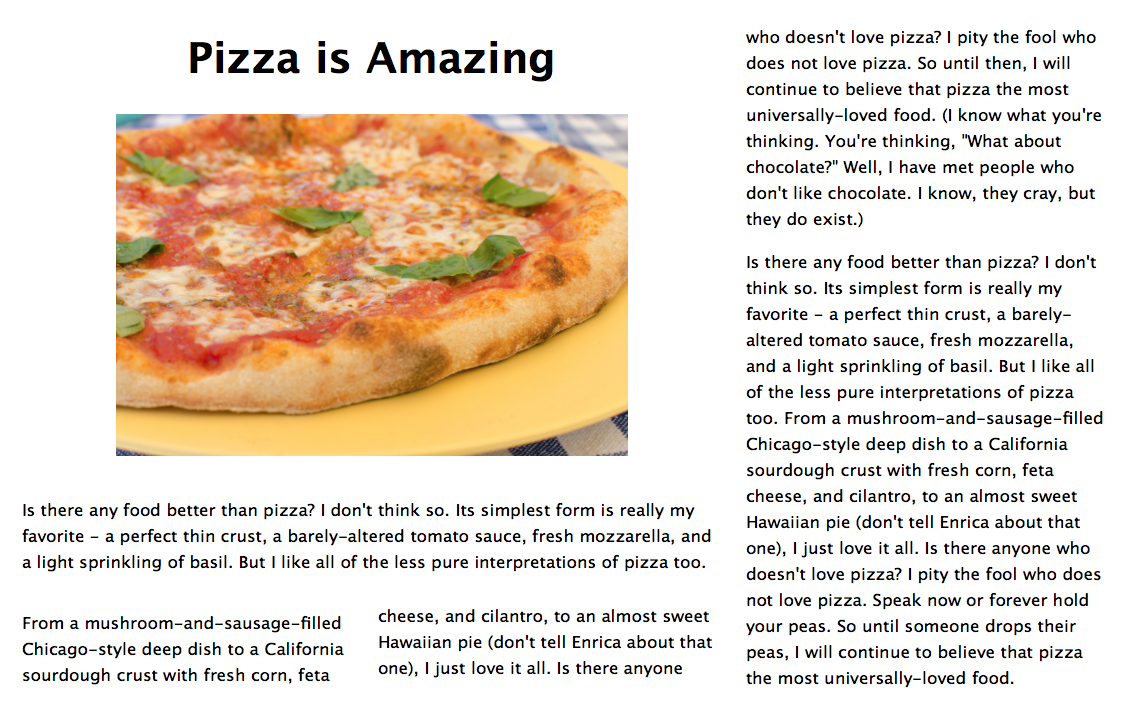
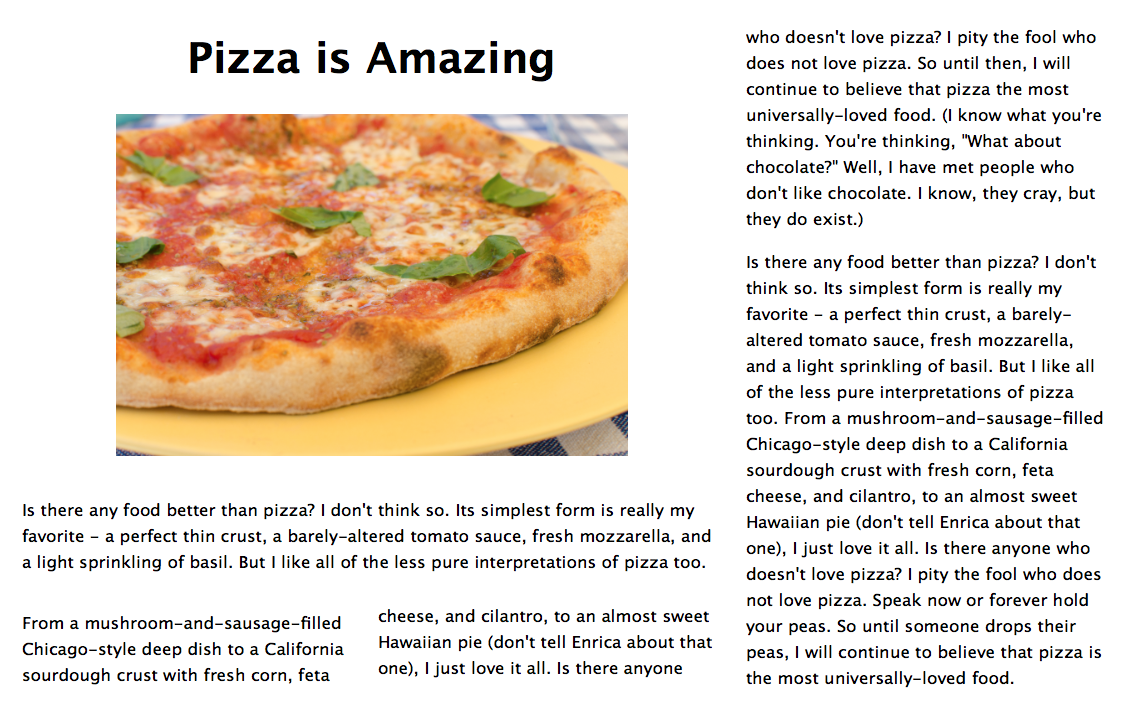
Fixing a typo in demo files and screenshot.
* blog-files/regions/pizza-is-amazing.png: Replaced.
* demos/regions/pizza-regions-manifesto-regionstyling.html:
* demos/regions/pizza-regions-manifesto.html:

git-svn-id: https://svn.webkit.org/repository/webkit/trunk@155073 268f45cc-cd09-0410-ab3c-d52691b4dbfc

diff --git a/Websites/webkit.org/demos/regions/pizza-regions-manifesto-regionstyling.html b/Websites/webkit.org/demos/regions/pizza-regions-manifesto-regionstyling.html
@@ -105,7 +105,7 @@
       Chicago-style deep dish to a California sourdough crust with fresh corn, feta cheese, and cilantro,
       to an almost sweet Hawaiian pie (don't tell Enrica about that one), I just love it all. Is there anyone
       who doesn't love pizza? I pity the fool who does not love pizza. Speak now or forever hold your peas. So until
-      someone drops their peas, I will continue to believe that pizza the most universally-loved food.</p>
+      someone drops their peas, I will continue to believe that pizza is the most universally-loved food.</p>
   </div>
   
   <!-- Layout of the page using regions displaying content from different named flows -->

diff --git a/Websites/webkit.org/demos/regions/pizza-regions-manifesto.html b/Websites/webkit.org/demos/regions/pizza-regions-manifesto.html
@@ -92,7 +92,7 @@
       Chicago-style deep dish to a California sourdough crust with fresh corn, feta cheese, and cilantro,
       to an almost sweet Hawaiian pie (don't tell Enrica about that one), I just love it all. Is there anyone
       who doesn't love pizza? I pity the fool who does not love pizza. Speak now or forever hold your peas. So until
-      someone drops their peas, I will continue to believe that pizza the most universally-loved food.</p>
+      someone drops their peas, I will continue to believe that pizza is the most universally-loved food.</p>
   </div>
   
   <!-- Layout of the page using regions displaying content from different named flows -->
